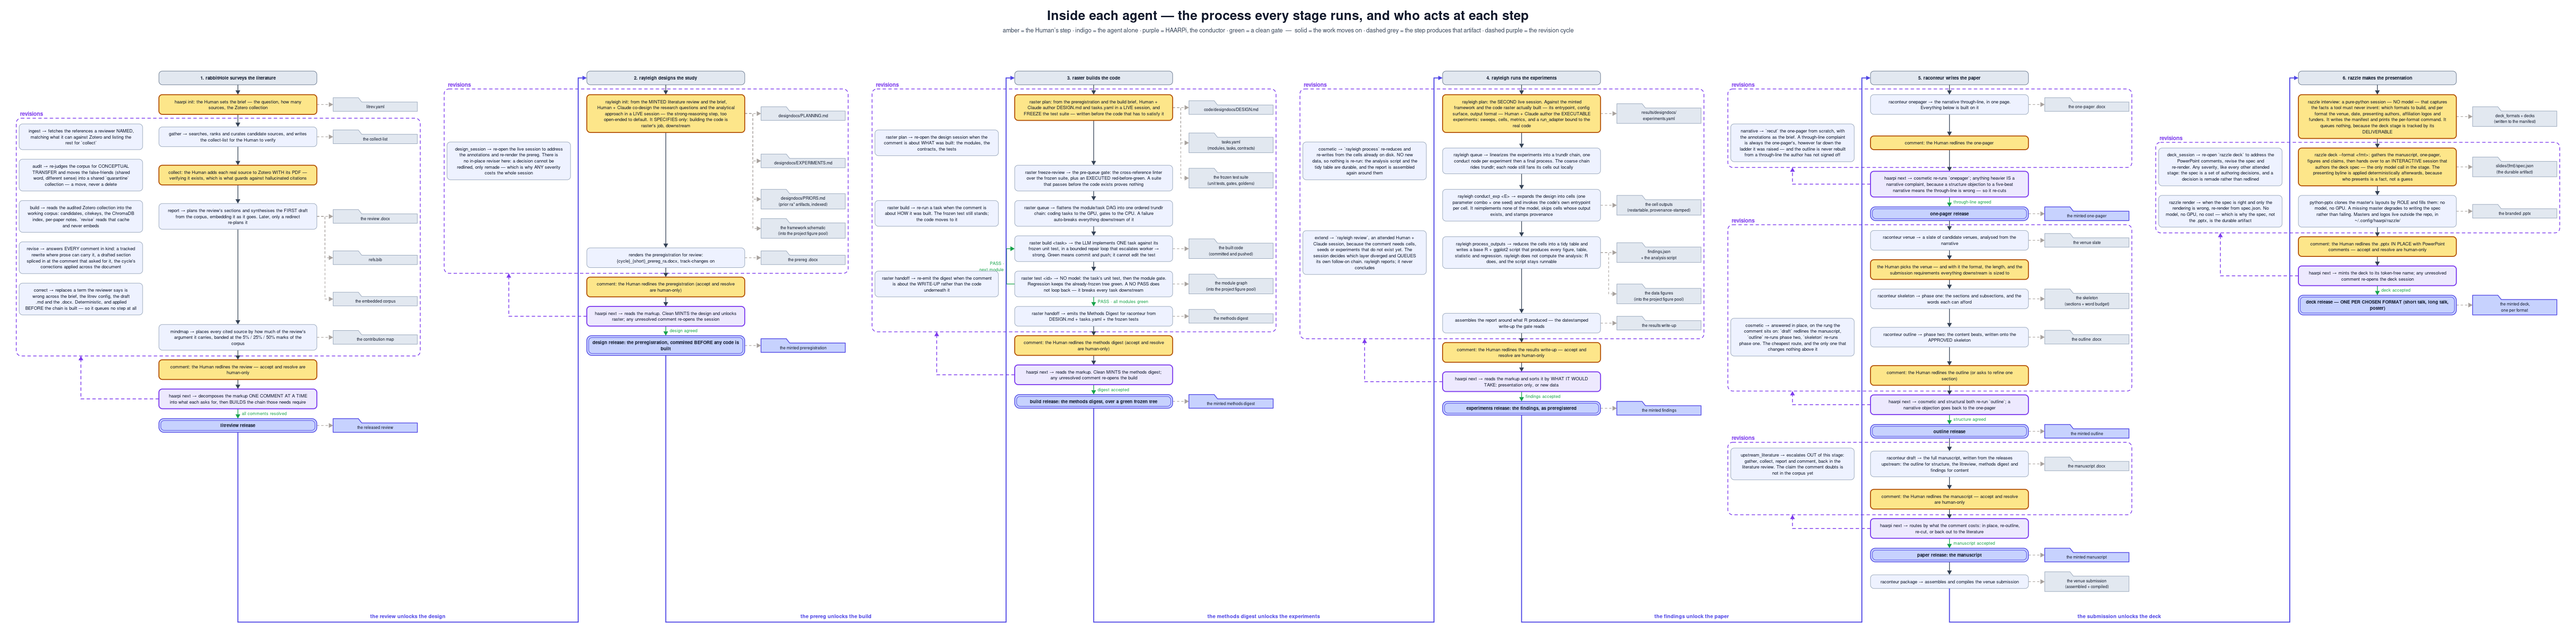
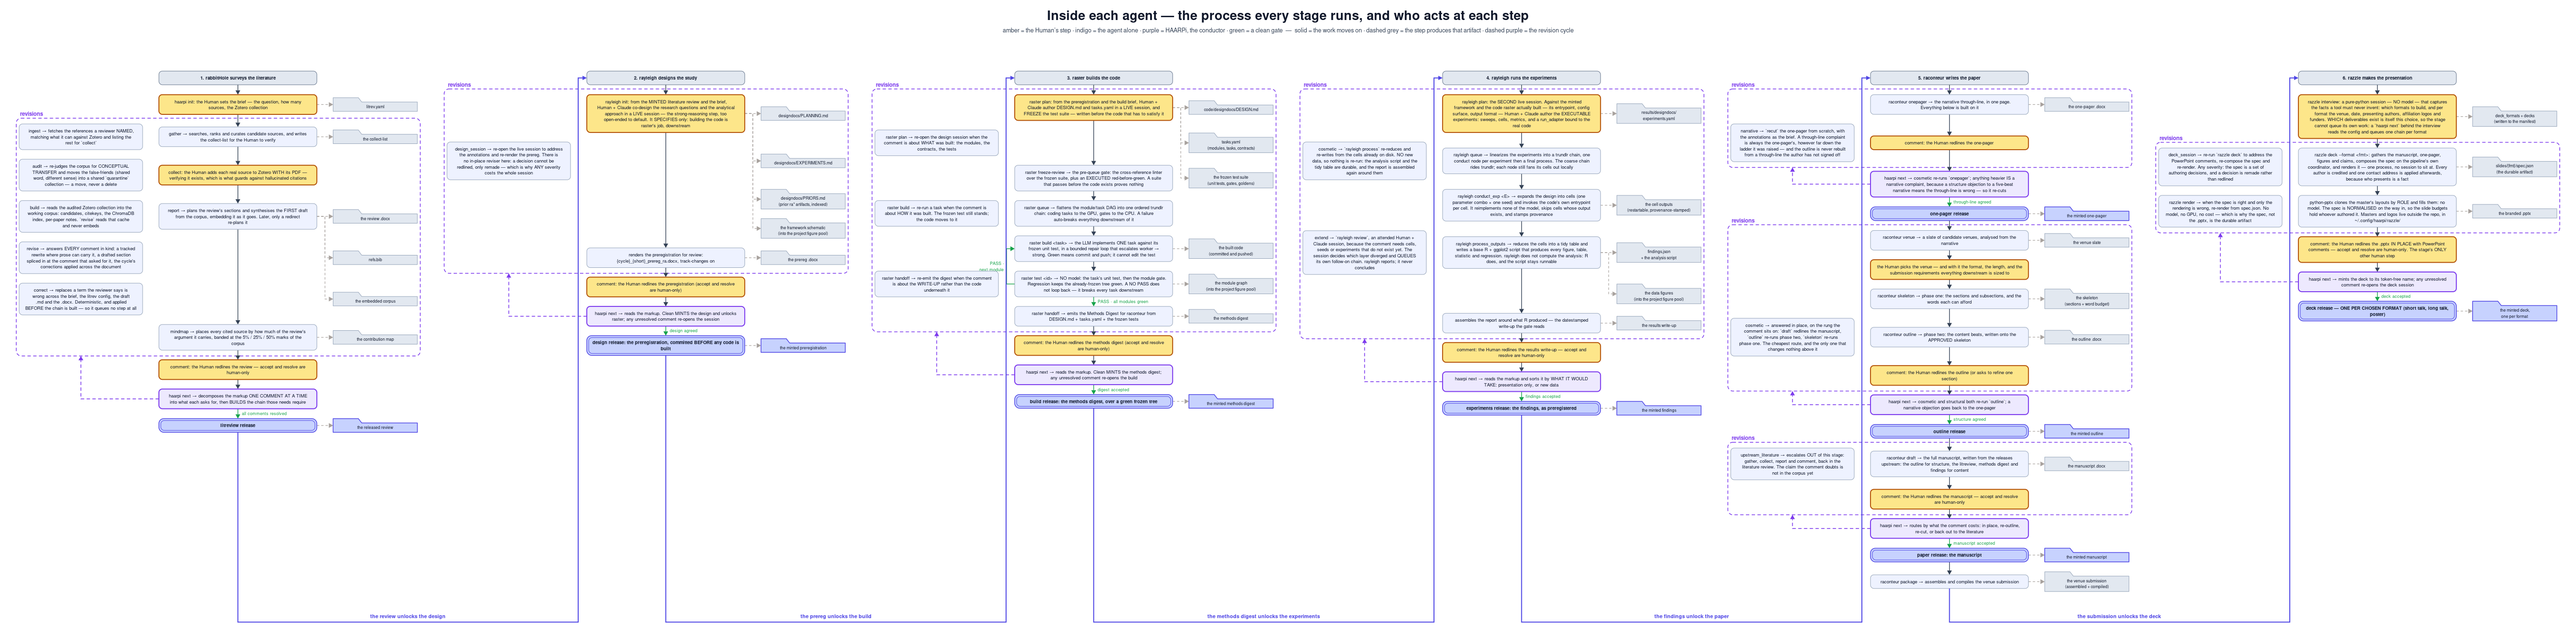
haarpi: the deck queues its own formats, from the `haarpi next` behind the interview
The deck is the one stage where WHICH deliverables exist is itself a human
choice, made in the interview. So it cannot queue its own authoring when it
opens — at that moment the formats do not exist. `--all-formats` was the
workaround: one task that resolved the formats when it ran.

That was scaffolding around the wrong shape. Every other chain in the
pipeline ends in `haarpi next`; the deck stage was the only one that did not.
Now the interview is followed by one, and that is where the per-format
chains are queued — by which time the config is on disk.

So the board gets `razzle author longtalk 1` -> `razzle comment longtalk 1`
-> `razzle next 1`, one chain per format, instead of a single task covering
N deliverables with one title, one duration estimate, and one exit code that
could not say which format failed. The estimator is keyed on stage+step, so a
variable-N task was always going to estimate badly.

`author` and `comment` join the deck registry (they were real steps with no
entry), the razzle panel draws them, and --all-formats is deleted rather than
kept as scaffolding.

The panel also still described the old design — an INTERACTIVE session, "the
only model call in the stage", amber for a step that is now the agent's alone.
The drift test caught the missing steps; the stale prose it cannot catch, so
that is corrected by hand.

The new queueing branch consults the single `queueing` decision like the
other three, and its guard test now counts four.

Changed region(s): [[0.8711, 0.3747, 0.9956, 0.4996], [0.84, 0.1874, 0.9644, 0.3435]]

diff --git a/packages/haarpi/haarpi/planner.py b/packages/haarpi/haarpi/planner.py
@@ -150,10 +150,14 @@ STAGE_STEPS: dict[str, dict[str, Step]] = {
     # the attended deck session (razzle re-authors the spec addressing the comments, re-renders).
     # Same one-tier shape as design/build.
     "deck": {
-        # Unattended: the interview settled every fact a tool must not invent, and the re-rendered
-        # .pptx meets the human again at the redline gate — so there is no decision inside the
+        # Unattended, all three: the interview settled every fact a tool must not invent, and the
+        # rendered .pptx meets the human at the redline gate — so there is no decision inside an
         # authoring pass for anyone to sit through. GPU, because it is a local-model call like
         # every other working loop in the pipeline.
+        "author":  Step("haarpi razzle deck", 1.5,
+                        "Author the deck spec from the one-pager's spine plus the real figures "
+                        "and numbers, and render it to the branded .pptx.", resource="gpu"),
+        "comment": Step(None, 0.25, "Review the rendered deck and annotate it."),
         "deck_session": Step("haarpi razzle deck", 1.0,
                              "Re-author the deck spec to address the PowerPoint comments and "
                              "re-render the .pptx.", resource="gpu"),
@@ -1583,30 +1587,57 @@ def _open_deck(client, m: project.Manifest, tr_cfg: dict) -> None:
     The interview is genuinely interactive — it asks which formats, and per format the venue, date,
     presenters, logos and funders, none of which a tool may invent — so it stays the human's.
 
-    The authoring that follows is not. Every decision it needs was settled by the interview, and
-    what it produces meets the human again at the redline gate, so nobody needs to sit through it.
-    It is queued as ONE task depending on the interview, and fans out over the configured formats
-    when it RUNS: haarpi still does not create a task per format, because at the moment the board
-    is written the interview has not been held and the formats do not exist yet.
-
-    It runs on the GPU, because it is a local-model call — gather, compose on the pipeline's own
-    coordinator, render — like every other working loop here. No session, so nothing to sit at.
+    The authoring that follows is not, and it cannot be queued here: the formats are the
+    interview's to choose, so at the moment this writes the board they do not exist. So the
+    interview is followed by `haarpi next` — the same way every other chain in the pipeline ends
+    — and THAT queues one authoring chain per format, by which time the config is on disk.
     """
     interview = client.create_task(
         "razzle deck: configure", m.trundlr_project_id,
         description="Configure this project's deck(s): run `haarpi razzle interview` — a pure-python "
                     "(no-LLM) session that captures the presentation format(s) and, per format, the "
                     "venue, date, presenting authors, affiliation logos, and funders. It writes the "
-                    "config; the authoring task behind this one reads it and runs unattended.",
+                    "config; the `haarpi next` behind this one reads it and queues a deck per format.",
         resource_id=_resource_id(tr_cfg, "human"), duration=0.5)
     client.create_task(
-        "razzle deck: author", m.trundlr_project_id,
-        command="haarpi razzle deck --all-formats",
+        _title("deck", "next", "", 1), m.trundlr_project_id,
+        command="haarpi next",
         depends_on_id=(interview or {}).get("id"),
-        description="Author a deck for every format the interview configured, and render each to "
-                    "the branded .pptx. Unattended — the facts were settled in the interview and "
-                    "the rendered deck meets you at the gate.",
-        resource_id=_resource_id(tr_cfg, "gpu"), duration=1.5)
+        description="Read the deck config the interview just wrote and queue one authoring chain "
+                    "per format.",
+        resource_id=_resource_id(tr_cfg, "runner"), duration=0.1)
+
+
+def _queue_deck_formats(root: Path, m: project.Manifest, client, tr_cfg: dict) -> list[str]:
+    """One authoring chain per configured deck format — author -> comment -> `haarpi next`.
+
+    This is the deck's answer to a problem no other stage has: WHICH deliverables exist is itself
+    a human choice, made in the interview, so the stage cannot queue its own work when it opens.
+    The interview is followed by `haarpi next`, and this runs there — by which time
+    `deck_formats` is on disk and each format can have a chain of its own, with its own title,
+    its own duration history, and its own pass through the gate.
+
+    Idempotent, and deliberately so: `haarpi next` runs at the end of every chain in the project,
+    so this is reached constantly. A format is skipped once its chain has been queued (recorded in
+    the plan log) or once a deck for it already exists.
+    """
+    if not m.trundlr_project_id or "deck" not in (m.stages or {}):
+        return []
+    if not project.list_plans(root):                       # stage never opened
+        return []
+    opened = {e.get("stage") for e in project.list_plans(root) if e.get("type") == "opened"}
+    if "deck" not in opened:
+        return []
+    already = {e.get("format") for e in project.list_plans(root) if e.get("type") == "deck_queued"}
+    queued: list[str] = []
+    for fmt in (m.deck_formats or []):
+        if fmt in already or (root / "slides" / fmt / "spec.json").is_file():
+            continue
+        queue_chain(client, m.trundlr_project_id, "deck", ["author", "comment"], tr_cfg,
+                    description=f"Deck configured for {fmt}: author it.", venue=fmt)
+        project.record_plan(root, {"type": "deck_queued", "format": fmt})
+        queued.append(fmt)
+    return queued
 
 
 def _advance(root: Path, m: project.Manifest, client, tr_cfg: dict) -> list[str]:
@@ -1694,6 +1725,18 @@ def run_next(root: Path, stage: str | None = None, file: Path | None = None,
     # skipped the rung queue while rework still fired would be worse than no flag at all.
     queueing = bool(m.trundlr_project_id) and not no_queue
     skipped = " ; queueing skipped (--no-queue)" if m.trundlr_project_id and no_queue else ""
+
+    # The deck's formats are chosen in the interview, so its work cannot be queued when the stage
+    # opens. This runs BEFORE the markup search on purpose: the interview leaves no markup behind,
+    # and if another stage happened to have a finished file this would otherwise never be reached.
+    if queueing:
+        try:
+            _deck_queued = _queue_deck_formats(
+                root, m, trundlr.TrundlrClient(tr_cfg.get("url", "")), tr_cfg)
+            if _deck_queued:
+                print(f"haarpi next: queued a deck chain for {', '.join(_deck_queued)}")
+        except trundlr.TrundlrError as e:
+            print(f"  [trundlr] deck queueing skipped: {e}")
 
     if file is not None:
         found = (stage or "litreview", Path(file))

diff --git a/packages/haarpi/tests/test_pipeline.py b/packages/haarpi/tests/test_pipeline.py
@@ -496,34 +496,52 @@ def _human_client(tr):
     return trundlr.TrundlrClient(f"http://127.0.0.1:{tr.server_address[1]}")
 
 
-def test_deck_opens_a_human_interview_then_an_unattended_authoring_task(proj, servers):
-    """The interview is genuinely interactive and stays the human's. The authoring behind it is
-    not — every fact it needs was settled in the interview — so it is a runner task.
-
-    Still no task PER FORMAT: at the moment the board is written the interview has not been held,
-    so the formats do not exist yet. The one authoring task fans out when it runs.
-    """
+def test_deck_opens_with_the_interview_and_a_next_behind_it(proj, servers):
+    """WHICH deck deliverables exist is itself a human choice, made in the interview — so the
+    stage cannot queue its own authoring when it opens. It opens the way every other chain in
+    the pipeline ends: with `haarpi next`, which reads the config the interview wrote."""
     tr, _ = servers
-    cfg = {"human_resource": 1, "gpu_resource": 2}
+    cfg = {"human_resource": 1, "gpu_resource": 2, "runner_resource": 2}
     for fmts in ([], ["shorttalk", "longtalk"]):
         m = project.load_manifest(proj)
         m.deck_formats = fmts
         before = len(tr.tasks)
         planner._open_deck(_human_client(tr), m, cfg)
         new = tr.tasks[before:]
-        assert len(new) == 2                                    # two, regardless of how many formats
+        assert len(new) == 2                          # never a task per format: none are known yet
 
-        configure, author = new
+        configure, nxt = new
         assert "configure" in configure["title"]
         assert "razzle interview" in configure["description"]   # the pure-python interview
         assert "command" not in configure                       # attended: the human runs it
         assert configure["resource_ids"] == [1]
 
-        assert "author" in author["title"]
-        assert author["command"] == "haarpi razzle deck --all-formats"
-        assert author["depends_on_id"] == configure["id"]       # cannot run before the config exists
-        # the GPU: authoring is a local-model call, like every other working loop here
-        assert author["resource_ids"] == [2]
+        assert nxt["command"] == "haarpi next"
+        assert nxt["depends_on_id"] == configure["id"]          # cannot read a config not yet written
+
+
+def test_next_queues_one_deck_chain_per_configured_format(proj, servers, monkeypatch):
+    """That `haarpi next` is where the per-format work appears — one chain each, so every format
+    gets its own title, its own duration history, and its own pass through the gate."""
+    tr, _ = servers
+    cfg = {"human_resource": 1, "gpu_resource": 2, "runner_resource": 2}
+    m = project.load_manifest(proj)
+    m.deck_formats = ["shorttalk", "longtalk"]
+    project.record_plan(proj, {"type": "opened", "stage": "deck"})
+
+    client = _human_client(tr)
+    assert planner._queue_deck_formats(proj, m, client, cfg) == ["shorttalk", "longtalk"]
+    titles = [t["title"] for t in tr.tasks]
+    for fmt in ("shorttalk", "longtalk"):
+        assert any("author" in t and fmt in t for t in titles)
+        assert any("comment" in t and fmt in t for t in titles)
+    # the authoring command is told which deliverable it is writing
+    authored = [t for t in tr.tasks if "author" in t["title"]]
+    assert {t["command"] for t in authored} == {
+        "haarpi razzle deck --format shorttalk", "haarpi razzle deck --format longtalk"}
+
+    # idempotent: `haarpi next` runs at the end of every chain, so this is reached constantly
+    assert planner._queue_deck_formats(proj, m, client, cfg) == []
 
 
 def test_a_deck_rework_is_told_which_format_it_is_re_authoring(proj):

diff --git a/figures/panels/stage6_razzle.py b/figures/panels/stage6_razzle.py
@@ -3,7 +3,7 @@
 
 
 STAGE = "deck"
-COVERS = {"deck_session": "l_deck"}
+COVERS = {"author": "deck", "comment": "comm", "deck_session": "l_deck"}
 OMITS = {}
 
 ROWS = [
@@ -21,26 +21,28 @@ SPINE = {
  "hdr": ("head", "6. razzle makes the presentation"),
  "config": ("amber", "razzle interview: a pure-python session — NO model — that captures the "
                      "facts a tool must never invent: which formats to build, and per format the "
-                     "venue, date, presenting authors, affiliation logos and funders. It writes "
-                     "the manifest and prints the per-format command. It queues nothing, because "
-                     "the deck stage is tracked by its DELIVERABLE"),
- "deck": ("amber", "razzle deck --format <fmt>: gathers the manuscript, one-pager, figures and "
-                   "claims, then hands over to an INTERACTIVE session that authors the deck spec "
-                   "— the only model call in the stage. The presenting byline is applied "
-                   "deterministically afterwards, because who presents is a fact, not a guess"),
- "render": ("indigo", "python-pptx clones the master's layouts by ROLE and fills them: no model, "
-                      "no GPU. A missing master degrades to writing the spec rather than failing. "
-                      "Masters and logos live outside the repo, in ~/.config/haarpi/razzle/"),
+                     "venue, date, presenting authors, affiliation logos and funders. WHICH "
+                     "deliverables exist is itself this choice, so the stage cannot queue its own "
+                     "work: a `haarpi next` behind the interview reads the config and queues one "
+                     "chain per format"),
+ "deck": ("indigo", "razzle deck --format <fmt>: gathers the manuscript, one-pager, figures and "
+                    "claims, composes the spec on the pipeline's own coordinator, and renders it "
+                    "— one process, no session to sit at. Every author is credited and one "
+                    "contact address is applied afterwards, because who presents is a fact"),
+ "render": ("indigo", "python-pptx clones the master's layouts by ROLE and fills them: no model. "
+                      "The spec is NORMALISED on the way in, so the slide budgets hold whoever "
+                      "authored it. Masters and logos live outside the repo, in "
+                      "~/.config/haarpi/razzle/"),
  "comm": ("amber", "comment: the Human redlines the .pptx IN PLACE with PowerPoint comments — "
-                   "accept and resolve are human-only"),
+                   "accept and resolve are human-only. The stage's ONLY other human step"),
  "gate": ("purple", "haarpi next  →  mints the deck to its token-free name; any unresolved "
                     "comment re-opens the deck session"),
  "rel": ("mint", "deck release — ONE PER CHOSEN FORMAT (short talk, long talk, poster)"),
 }
 LANE = {
- "l_deck": "deck_session  →  re-open `razzle deck` to address the PowerPoint comments, revise "
-           "the spec and re-render. Any severity, like every other attended stage: the spec is "
-           "a set of authoring decisions, and a decision is remade rather than redlined",
+ "l_deck": "deck_session  →  re-run `razzle deck` to address the PowerPoint comments, re-compose "
+           "the spec and re-render. Any severity: the spec is a set of authoring decisions, and a "
+           "decision is remade rather than redlined",
  "l_render": "razzle render  →  when the spec is right and only the rendering is wrong, re-render "
              "from spec.json. No model, no GPU, no cost — which is why the spec, not the .pptx, "
              "is the durable artifact",

diff --git a/packages/razzle/razzle/cli.py b/packages/razzle/razzle/cli.py
@@ -126,30 +126,8 @@ def _author_headless(args, root: Path, fmt: str, prompt: str) -> int:
     return run_render(argparse.Namespace(dir=str(root), format=fmt, master=args.master))
 
 
-def _configured_formats(root: Path) -> list[str]:
-    """The formats `razzle interview` wrote to the manifest. Read at RUN time, not queue time:
-    the authoring task is queued when the deck stage opens, before the interview has been held,
-    so the formats simply are not known yet when the board is written."""
-    try:
-        from haarpi import project as _hp
-        return [f for f in (_hp.load_manifest(root).deck_formats or []) if f in formats.FORMATS]
-    except Exception:
-        return []
-
-
 def run_deck(args) -> int:
     root = Path(args.dir).resolve() if args.dir else Path.cwd()
-    if getattr(args, "all_formats", False):
-        chosen = _configured_formats(root)
-        if not chosen:
-            print("razzle deck: no deck formats configured — run `haarpi razzle interview` first",
-                  file=sys.stderr)
-            return 1
-        rc = 0
-        for fmt in chosen:
-            args.format, args.all_formats = fmt, False
-            rc = _author_one(args, root, fmt) or rc
-        return rc
     return _author_one(args, root, args.format)
 
 
@@ -249,8 +227,6 @@ def build_parser() -> argparse.ArgumentParser:
             p.add_argument("--headless", action="store_true",
                            help="with --claude: author unattended (`claude -p`) rather than "
                                 "opening a session")
-            p.add_argument("--all-formats", action="store_true",
-                           help="author every format the interview configured (read at run time)")
     iv = sub.add_parser("interview", help="pure-python interview: configure the deck(s) (writes config only)")
     iv.add_argument("--dir", help="project root (default: cwd)")
     return ap

diff --git a/packages/haarpi/tests/test_release_gate.py b/packages/haarpi/tests/test_release_gate.py
@@ -259,14 +259,15 @@ def test_the_mark_is_collected_before_the_deletion_sweep(tmp_path):
 
 
 def test_no_queue_is_decided_once_for_every_branch():
-    """run_next queues in three places — the rung, the stage advance, and rework. A flag
-    that silenced one while another still fired would be worse than no flag: you would mint
-    a skeleton believing nothing was queued and find a rework chain waiting."""
+    """run_next queues in four places — the deck's per-format chains, the rung, the stage
+    advance, and rework. A flag that silenced one while another still fired would be worse than
+    no flag: you would mint a skeleton believing nothing was queued and find a rework chain
+    waiting."""
     import inspect
     from haarpi import planner
     src = inspect.getsource(planner.run_next)
     assert "queueing = bool(m.trundlr_project_id) and not no_queue" in src
-    assert src.count("if queueing:") == 2
+    assert src.count("if queueing:") == 3
     assert "if not queueing:" in src
     assert "if m.trundlr_project_id:" not in src, "no branch may decide for itself"
 

diff --git a/README.md b/README.md
@@ -231,14 +231,17 @@ summarised into the abstract, which is written last.)*
 ### 6 · Deck — razzle
 
 An interview captures the facts a tool must never invent — format, venue, date,
-who is presenting, affiliation logos, funders. It is the human's, and it is the
-only part of the stage that is: behind it, one queued task authors a deck for
-every configured format from the one-pager's spine plus the real figures and
-numbers, and renders each to a branded `.pptx`. It runs on the local
-coordinator like every other working loop — gather, compose, render, in one
-process, with no session to sit at. That task is queued when the stage opens
-and reads the formats when it *runs* — at the moment the board is written the
-interview has not been held, so the formats do not exist yet. Deck masters, logos and any master-format
+who is presenting, affiliation logos, funders. **Which** deliverables exist is
+itself that choice, so the deck is the one stage that cannot queue its own work
+when it opens: the interview is followed by `haarpi next` — the way every other
+chain in the pipeline ends — and that queues one authoring chain per format,
+by which time the config is on disk. Each format then gets its own title, its
+own duration history, and its own pass through the gate.
+
+Authoring runs on the local coordinator like every other working loop: gather,
+compose, render, in one process, with no session to sit at. The spec is
+normalised on the way into the render, so the slide budgets hold whoever wrote
+it. Deck masters, logos and any master-format
 descriptor live outside the repo in `~/.config/haarpi/razzle/` and are never
 committed.
 
